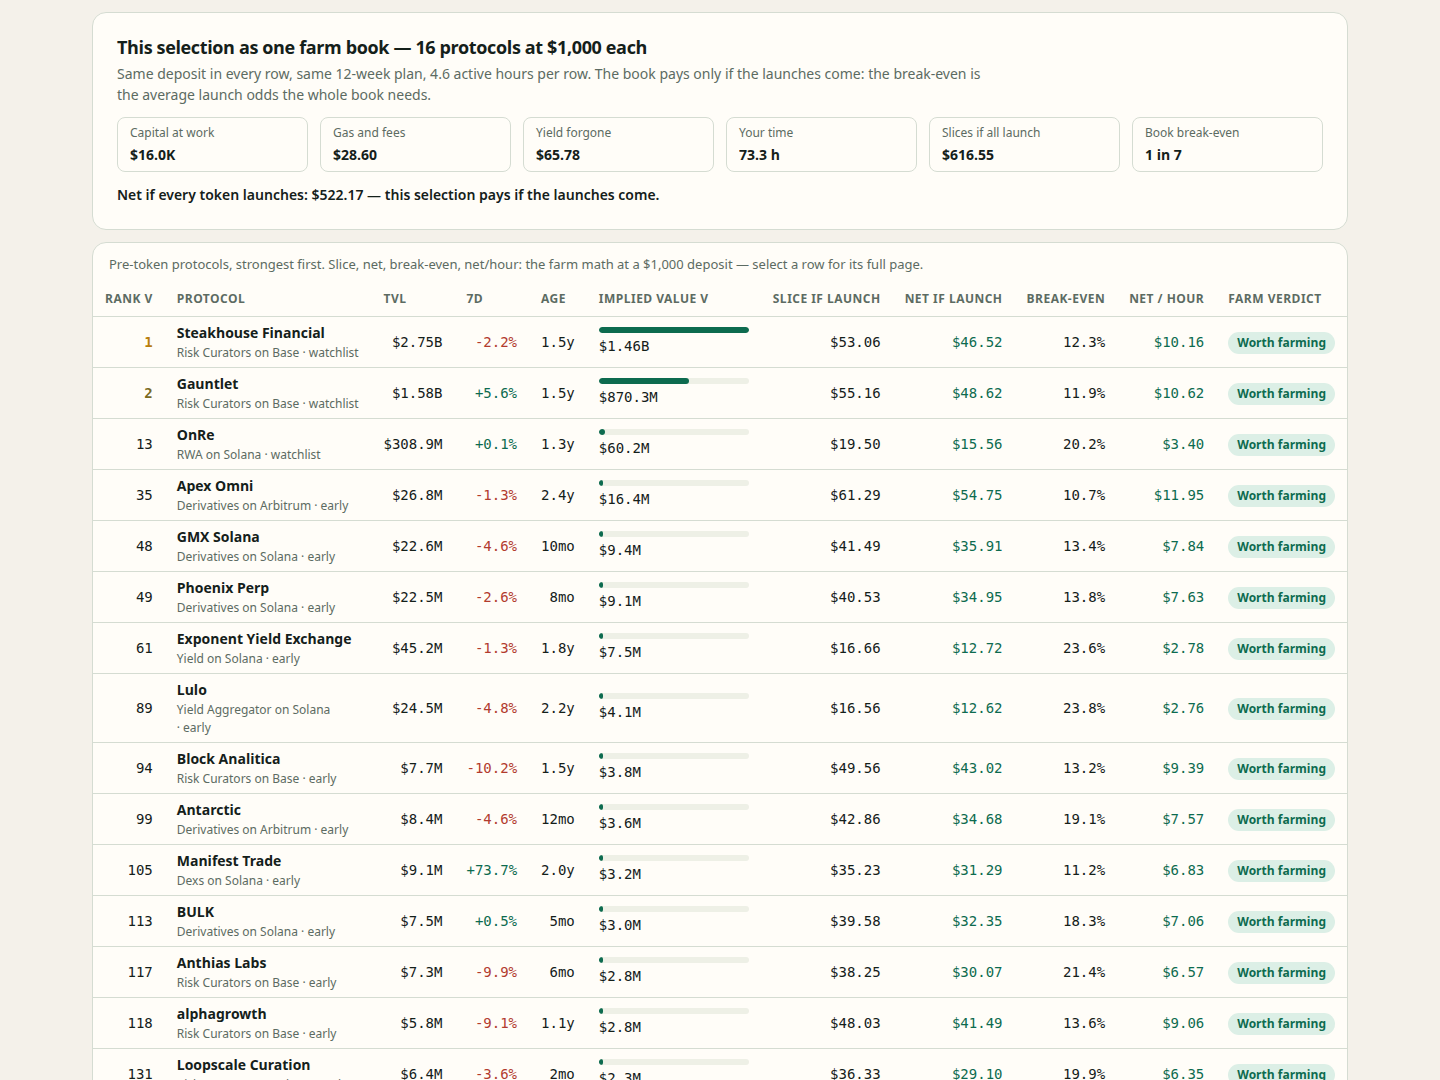
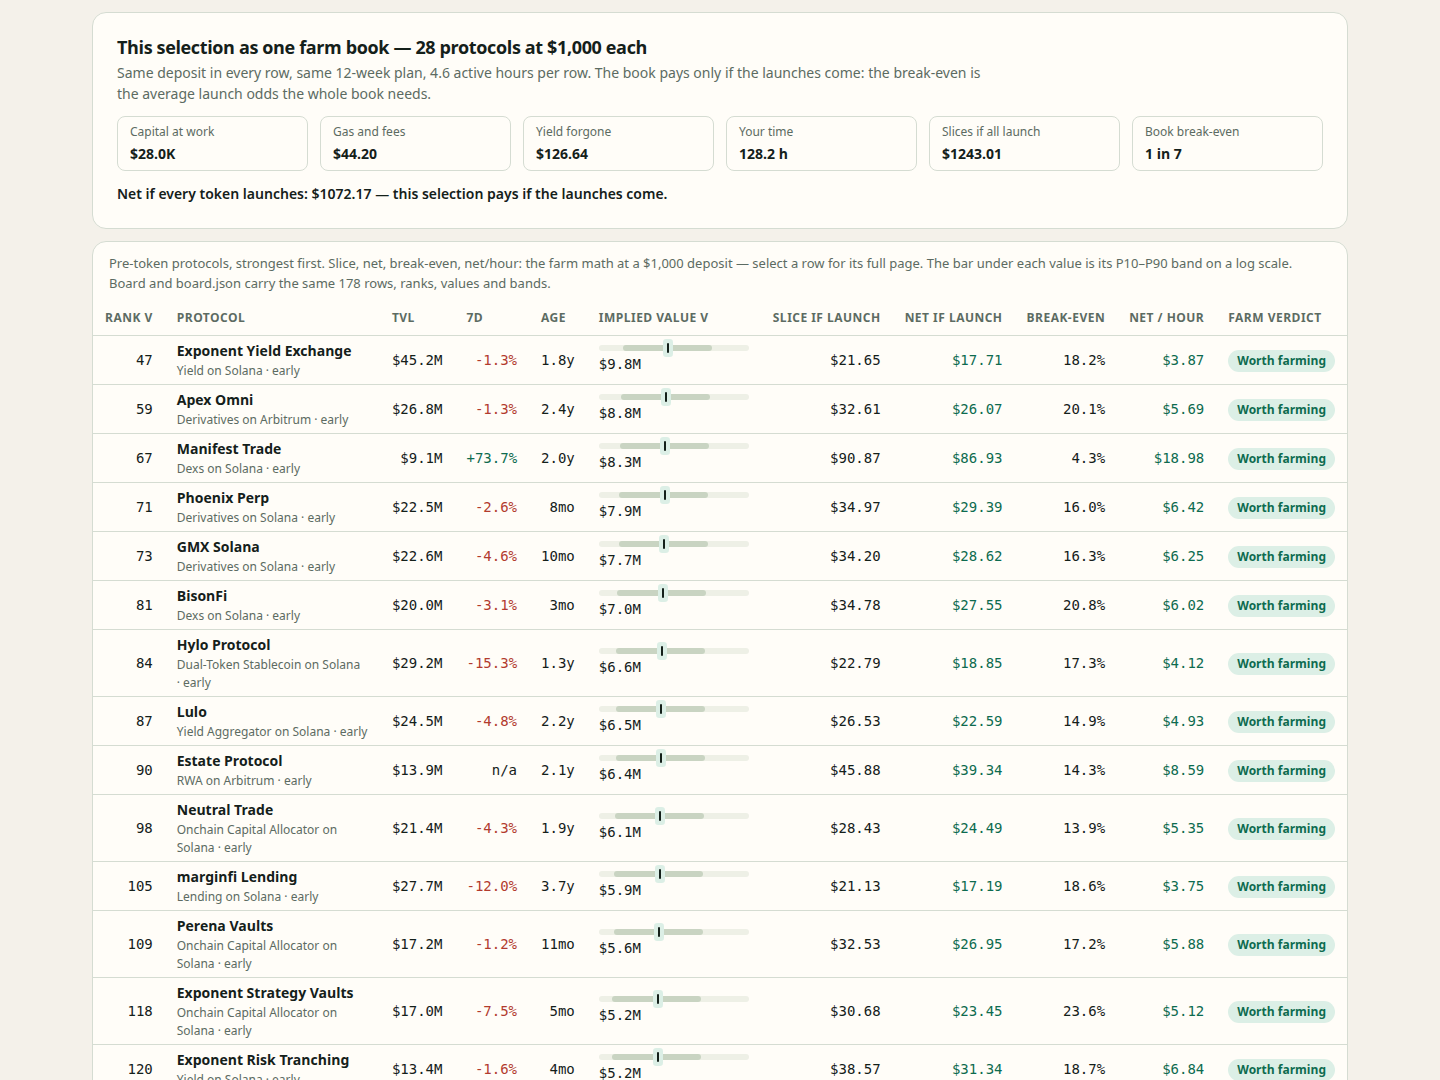
v5: fix detail recompute mismatch, compact method panel, 3-decimal net equation
- impliedOf now uses the category's rounded residual (exact match with the
  model): detail page says 'the same number board.json carries' again.
- Method panel: shorter bullets, 1-line validation labels, 'Read the full
  method' button inline in the verdict — board shows 3 full rows + partial 4th.
- Detail: net equation uses 3-decimal tilt/growth so the arithmetic checks.
- screenshots/: v5 set (board, detail, filtered farm book, method page).

diff --git a/dashboard/app.js b/dashboard/app.js
@@ -48,12 +48,14 @@
     return gaps;
   }
   // The dashboard recomputes a row's implied value from the same power law the model used:
-  // 10^(intercept + slope*log10(TVL) + log10(tilt)) x growth. It must match board.json.
+  // 10^(intercept + slope*log10(TVL) + residual) x growth, with the rounded residual the
+  // category carries. It must match board.json.
   function impliedOf(row, model) {
     var pl = DATA.power_law || { intercept: 3.0247, slope: 0.5223 };
     var growth = Math.min(model.growth_cap, Math.max(model.growth_floor, row.change_7d === null || row.change_7d === undefined ? 0 : row.change_7d));
-    var tilt = row.category_tilt === undefined ? 1 : row.category_tilt;
-    return Math.max(1, Math.round(Math.pow(10, pl.intercept + pl.slope * Math.log10(row.tvl_usd) + Math.log10(tilt)) * (1 + (growth / 100) * model.growth_weight)));
+    var entry = categoryEntry(row.category);
+    var resid = entry ? entry.residual : (row.category_tilt === undefined ? 0 : Math.log10(row.category_tilt));
+    return Math.max(1, Math.round(Math.pow(10, pl.intercept + pl.slope * Math.log10(row.tvl_usd) + resid) * (1 + (growth / 100) * model.growth_weight)));
   }
   function categoryEntry(category) {
     var found = (DATA.category_multiples || []).filter(function (c) { return c.category === category; })[0];
@@ -262,10 +264,10 @@
         el('div', { class: 'method-col' },
           el('h3', { text: 'The formula' }),
           el('ol', { class: 'method-steps' },
-            el('li', null, el('b', { text: 'Size curve. ' }), 'Value grows as TVL^' + pl.slope.toFixed(2) + ': a protocol with 100x the TVL is worth ~11x the value, not 100x. Fit on this snapshot\u2019s 128 live tokens.'),
-            el('li', null, el('b', { text: 'Category tilt. ' }), 'Each category tilts the curve by its shrunk median log-residual (prior weight ' + m.prior_weight + '): CEX +33%, Liquid Staking −23%, most within ±10%.'),
-            el('li', null, el('b', { text: 'Growth carry. ' }), 'The last 7 days of TVL growth move the value, capped at ' + m.growth_floor + '% to +' + m.growth_cap + '%, at weight ' + m.growth_weight + '.'),
-            el('li', null, el('b', { text: 'Removed. ' }), 'Maturity and chain count were tested and removed — both made leave-one-out worse. See the full method.')
+            el('li', null, el('b', { text: 'Size curve. ' }), 'Value grows as TVL^' + pl.slope.toFixed(2) + ': 100x the TVL is worth ~11x the value, not 100x. Fit on 128 live tokens.'),
+            el('li', null, el('b', { text: 'Category tilt. ' }), 'Shrunk median log-residual (prior weight ' + m.prior_weight + '): CEX +33%, Liquid Staking −23%, most within ±10%.'),
+            el('li', null, el('b', { text: 'Growth carry. ' }), '7d TVL growth moves the value, capped at ' + m.growth_floor + '% to +' + m.growth_cap + '%, weight ' + m.growth_weight + '.'),
+            el('li', null, el('b', { text: 'Removed. ' }), 'Maturity and chains were tested and removed — both made leave-one-out worse.')
           ),
           el('div', { class: 'formula' }, formula)
         ),
@@ -292,16 +294,15 @@
               el('tbody', null,
                 vrow('LOO n=' + v.live_n, v.loo_median_miss, v.loo_within3_pct, v.loo_within2_pct),
                 vrow('Flat TVL', v.flat_loo_median_miss, v.flat_loo_within3_pct, null),
-                vrow('Walk-fwd n=' + v.wf_n, v.wf_median_miss, v.wf_within3_pct, null),
-                vrow('Flat walk-fwd', v.flat_wf_median_miss, v.flat_wf_within3_pct, null)
+                vrow('Walk-fwd', v.wf_median_miss, v.wf_within3_pct, null),
+                vrow('Flat WF', v.flat_wf_median_miss, v.flat_wf_within3_pct, null)
               )
             )
           ),
-          el('p', { class: 'sub', text: 'LOO predicts each live token from a calibration that never saw it; walk-forward trains before ' + v.wf_cutoff + ', tests after. Bands: P25–P75 (×/÷' + v.band_p25_factor + ') holds ' + v.band_p25_hold_pct + '% of live tokens; P10–P90 (×/÷' + v.band_p90_factor + ') holds ' + v.band_p90_hold_pct + '%.' })
+          el('p', { class: 'sub', text: 'LOO predicts each live token from a calibration that never saw it; walk-forward trains before ' + v.wf_cutoff + ', tests after (n=' + v.wf_n + '). Bands: P25–P75 (×/÷' + v.band_p25_factor + ') holds ' + v.band_p25_hold_pct + '%; P10–P90 (×/÷' + v.band_p90_factor + ') holds ' + v.band_p90_hold_pct + '%.' })
         )
       ),
-      el('p', { class: 'method-verdict', text: verdict }),
-      el('p', null, el('button', { class: 'button', type: 'button', text: 'Read the full method →', onclick: function () { state.method = true; writeHash(); render(); } }))
+      el('p', { class: 'method-verdict' }, verdict + ' ', el('button', { class: 'button', type: 'button', text: 'Read the full method →', onclick: function () { state.method = true; writeHash(); render(); } }))
     );
   }
 
@@ -596,7 +597,7 @@
     }
     var pl = DATA.power_law || { intercept: 3.0247, slope: 0.5223 };
     var sizeCurve = Math.pow(10, pl.intercept + pl.slope * Math.log10(row.tvl_usd));
-    var netEq = fmtUsd(row.tvl_usd) + ' TVL → curve ' + fmtUsd(sizeCurve) + ' × tilt ' + (row.category_tilt === undefined ? 1 : row.category_tilt).toFixed(2) + '× × growth ' + (row.growth_multiplier === undefined ? 1 : row.growth_multiplier).toFixed(2) + '× = ' + fmtUsd(row.implied_value_usd);
+    var netEq = fmtUsd(row.tvl_usd) + ' TVL → curve ' + fmtUsd(sizeCurve) + ' × tilt ' + (row.category_tilt === undefined ? 1 : row.category_tilt).toFixed(3) + '× × growth ' + (row.growth_multiplier === undefined ? 1 : row.growth_multiplier).toFixed(3) + '× = ' + fmtUsd(row.implied_value_usd);
     var depRow = function (label, v1, v10) {
       return el('tr', null, el('td', { text: label }), el('td', { class: 'num', text: v1 }), el('td', { class: 'num', text: v10 }));
     };
@@ -634,7 +635,7 @@
           el('section', { class: 'panel chart detail-sec' },
             el('h2', { text: 'How the value is built' }),
             el('p', { class: 'net-equation', text: netEq }),
-            el('p', { class: 'sub', text: 'Model ' + DATA.model_version + ': the same function scores every protocol. The page recomputes this row as ' + fmtUsd(impliedOf(row, DATA.model)) + (impliedOf(row, DATA.model) === row.implied_value_usd ? ', the same number board.json carries.' : ', which differs from the board: the data would be stale.') + ' This is an estimate, not a price, and the protocol records no token: it may still have one the snapshot does not carry.' })
+            el('p', { class: 'sub', text: 'Model ' + DATA.model_version + ' scores every protocol with the same function. Recomputed here as ' + fmtUsd(impliedOf(row, DATA.model)) + (Math.abs(impliedOf(row, DATA.model) - row.implied_value_usd) <= Math.max(1, row.implied_value_usd * 0.001) ? ' — the same number board.json carries.' : ' — which differs from the board: the data would be stale.') + ' An estimate, not a price.' })
           ),
           el('section', { class: 'panel chart detail-sec' },
             el('h2', { text: 'Record in the snapshot' }),

diff --git a/dashboard/app.css b/dashboard/app.css
@@ -83,7 +83,7 @@ a { color: var(--accent); }
 .method-col h3 { margin-bottom: var(--step-1); }
 .method-steps { margin: 0 0 var(--step-2); padding-left: 20px; display: grid; gap: 6px; font-size: 13px; }
 .method table { font-size: 13px; }
-.method tbody td { padding: var(--step-2) var(--step-3); }
+.method tbody td { padding: 6px var(--step-3); }
 .method tbody tr { cursor: default; }
 .method tbody tr:hover { background: transparent; }
 .method .formula { margin-bottom: 0; }
@@ -93,7 +93,7 @@ a { color: var(--accent); }
 .dot.pre { background: var(--amber); }
 .dot.curve { background: var(--ink); border-radius: 0; width: 12px; height: 2px; vertical-align: middle; }
 .method-verdict { margin-top: var(--step-2); padding-top: var(--step-2); border-top: 1px solid var(--border); font-size: 15px; line-height: 1.6; max-width: 110ch; }
-.method .button { margin-top: var(--step-2); }
+.method-verdict .button { padding: 4px 12px; font-size: 13px; vertical-align: middle; margin-left: 6px; }
 /* Farm verdict pills and filter chips. */
 .verdict { display: inline-block; padding: 2px 9px; border-radius: 999px; font-size: 12px; font-weight: 700; white-space: nowrap; }
 .verdict-worth { background: var(--accent-soft); color: var(--accent); }
@@ -113,11 +113,11 @@ a { color: var(--accent); }
 .detail-sec h2 { margin-bottom: var(--step-1); }
 .detail-sec p { color: var(--muted); margin-bottom: var(--step-3); max-width: 72ch; font-size: 14px; }
 .detail-sec table { font-size: 13px; }
-.detail-sec tbody td { padding: var(--step-2) var(--step-3); }
+.detail-sec tbody td { padding: 6px var(--step-3); }
 .detail-sec tbody tr { cursor: default; }
 .detail-sec tbody tr:hover { background: transparent; }
 .detail-sec .kv td:first-child { color: var(--muted); width: 40%; }
-.timeline { display: flex; flex-wrap: wrap; gap: var(--step-2); margin-bottom: var(--step-3); }
+.timeline { display: flex; flex-wrap: wrap; gap: var(--step-2); margin-bottom: var(--step-2); }
 .timeline span { background: var(--surface-2); border: 1px solid var(--border); border-radius: 999px; padding: 3px 10px; font-size: 12px; font-weight: 650; }
 .signals.flat { padding: 0; }
 
@@ -253,7 +253,7 @@ td.num, th.num { text-align: right; }
 .equation div { display: flex; justify-content: space-between; gap: var(--step-3); padding: var(--step-3); background: var(--surface-2); border-radius: var(--radius-control); }
 .equation span { color: var(--muted); font-size: 13px; }
 .equation b { font-weight: 650; }
-.steps { margin: 0; padding-left: 22px; display: grid; gap: var(--step-3); }
+.steps { margin: 0; padding-left: 22px; display: grid; gap: 8px; }
 .steps li { line-height: 1.55; font-size: 14px; }
 .steps .cost { display: block; color: var(--muted); font-size: 13px; margin-top: 2px; }
 .note { padding: var(--step-4) var(--step-5); color: var(--muted); font-size: 13px; }
